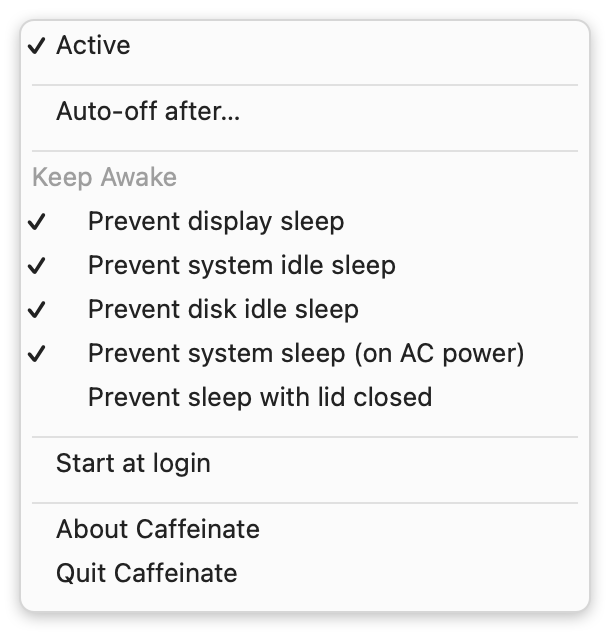
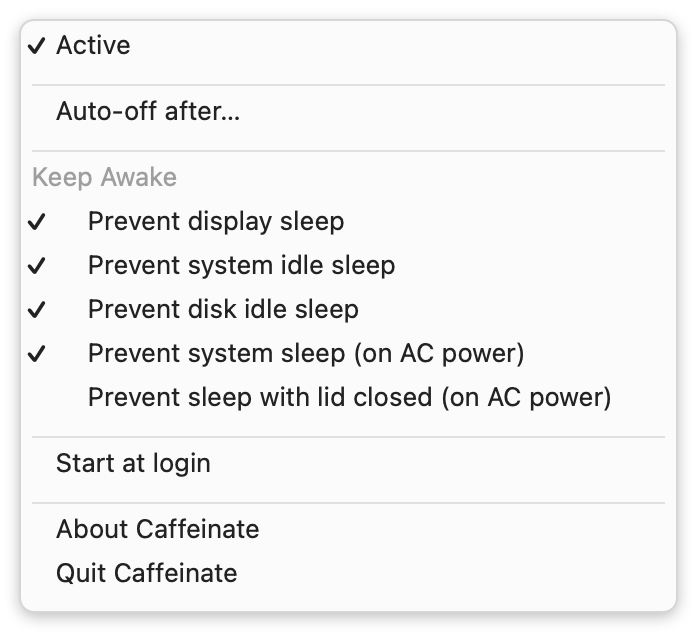
Lid option on AC power only, About box credits
The lid option disables clamshell sleep only while Caffeinate is
active, the option is checked and the Mac is on AC power. A power
source notification applies the change on plug and unplug. While the
option is checked, the -s assertion is held and its menu item is
locked on, because the idle sleep timer still sleeps a closed Mac.
A failure to clear the override shows an alert too.

The About box credits Lennard Kittner with a link to his GitHub page.

Lid test on Mac15,13 passed, arms A to D, see the lid finding.

diff --git a/Caffeinate/Appdelegate.swift b/Caffeinate/Appdelegate.swift
@@ -8,6 +8,7 @@
 import Foundation
 import AppKit
 import IOKit.pwr_mgt
+import IOKit.ps
 
 class AppDelegate: NSObject, NSApplicationDelegate, NSMenuDelegate {
     var statusBarItem: NSStatusItem?
@@ -37,6 +38,8 @@ class AppDelegate: NSObject, NSApplicationDelegate, NSMenuDelegate {
     private var expiryDate: Date?
     private var tickTimer: Timer?
 
+    private var lidSleepDisabled = false
+
     // Duration presets shown in the "Auto-off after…" submenu.
     private static let timerPresets: [(title: String, seconds: TimeInterval)] = [
         ("15 minutes", 15 * 60),
@@ -57,6 +60,7 @@ class AppDelegate: NSObject, NSApplicationDelegate, NSMenuDelegate {
         statusBarItem?.button?.sendAction(on: [.leftMouseUp, .rightMouseUp])
         updateStatusButton()
         _ = setLidSleepDisabled(false)
+        observePowerSource()
     }
 
     func applicationWillTerminate(_ notification: Notification) {
@@ -99,7 +103,7 @@ class AppDelegate: NSObject, NSApplicationDelegate, NSMenuDelegate {
         idleItem = addFlagItem(to: menu, title: "Prevent system idle sleep", action: #selector(toggleIdle))
         diskItem = addFlagItem(to: menu, title: "Prevent disk idle sleep", action: #selector(toggleDisk))
         systemItem = addFlagItem(to: menu, title: "Prevent system sleep (on AC power)", action: #selector(toggleSystem))
-        lidItem = addFlagItem(to: menu, title: "Prevent sleep with lid closed", action: #selector(toggleLid))
+        lidItem = addFlagItem(to: menu, title: "Prevent sleep with lid closed (on AC power)", action: #selector(toggleLid))
 
         menu.addItem(.separator())
 
@@ -181,7 +185,10 @@ class AppDelegate: NSObject, NSApplicationDelegate, NSMenuDelegate {
         displayItem.state = conf.preventDisplaySleep ? .on : .off
         idleItem.state = conf.preventIdleSleep ? .on : .off
         diskItem.state = conf.preventDiskIdle ? .on : .off
-        systemItem.state = conf.preventSystemSleep ? .on : .off
+        systemItem.state = (conf.preventSystemSleep || conf.preventLidSleep) ? .on : .off
+        systemItem.isEnabled = !conf.preventLidSleep
+        systemItem.toolTip = conf.preventLidSleep ?
+            "Required by \u{201C}Prevent sleep with lid closed\u{201D}. Without it, the idle sleep timer still puts a closed Mac to sleep." : nil
         lidItem.state = conf.preventLidSleep ? .on : .off
         loginItem.state = conf.atLogin ? .on : .off
         loginItem.isEnabled = configHandler.macOS13
@@ -360,8 +367,17 @@ class AppDelegate: NSObject, NSApplicationDelegate, NSMenuDelegate {
     }
 
     @objc private func showAbout() {
+        let centred = NSMutableParagraphStyle()
+        centred.alignment = .center
+        let credits = NSAttributedString(
+            string: "\u{00A9} 2026 Lennard Kittner",
+            attributes: [
+                .link: URL(string: "https://github.com/LennardKittner") as Any,
+                .font: NSFont.systemFont(ofSize: NSFont.smallSystemFontSize),
+                .paragraphStyle: centred,
+            ])
         NSApp.activate(ignoringOtherApps: true)
-        NSApp.orderFrontStandardAboutPanel(nil)
+        NSApp.orderFrontStandardAboutPanel(options: [.credits: credits])
     }
 
     @objc private func quit() {
@@ -390,10 +406,11 @@ class AppDelegate: NSObject, NSApplicationDelegate, NSMenuDelegate {
     private func selectedAssertionTypes() -> [String] {
         let conf = configHandler.conf
         var types: [String] = []
+        let systemSleep = conf.preventSystemSleep || conf.preventLidSleep
         if conf.preventDisplaySleep { types.append(kIOPMAssertionTypePreventUserIdleDisplaySleep as String) } // -d
         if conf.preventIdleSleep { types.append(kIOPMAssertionTypePreventUserIdleSystemSleep as String) }     // -i
         if conf.preventDiskIdle { types.append(kIOPMAssertPreventDiskIdle as String) }                        // -m
-        if conf.preventSystemSleep { types.append(kIOPMAssertionTypePreventSystemSleep as String) }           // -s
+        if systemSleep { types.append(kIOPMAssertionTypePreventSystemSleep as String) }                       // -s
         return types
     }
 
@@ -442,12 +459,35 @@ class AppDelegate: NSObject, NSApplicationDelegate, NSMenuDelegate {
     }
 
     private func syncLidSleep() {
-        let disable = hasCoffee && configHandler.conf.preventLidSleep
-        let result = setLidSleepDisabled(disable)
-        if disable && result != KERN_SUCCESS {
-            configHandler.mutateConfig { $0.preventLidSleep = false }
-            showAlert("Prevent Sleep with Lid Closed",
-                      String(format: "macOS refused the request (0x%x).", result))
+        let disable = hasCoffee && configHandler.conf.preventLidSleep && onACPower()
+        if disable != lidSleepDisabled {
+            let result = setLidSleepDisabled(disable)
+            if result == KERN_SUCCESS {
+                lidSleepDisabled = disable
+            } else if disable {
+                configHandler.mutateConfig { $0.preventLidSleep = false }
+                showAlert("Prevent Sleep with Lid Closed",
+                          String(format: "macOS refused to keep the Mac awake with the lid closed (0x%x). The option is turned off.", result))
+            } else {
+                showAlert("Prevent Sleep with Lid Closed",
+                          String(format: "macOS refused to restore sleep with the lid closed (0x%x). The Mac may stay awake with the lid closed until Caffeinate retries, quits, or the Mac restarts.", result))
+            }
         }
+    }
+
+    private func onACPower() -> Bool {
+        let snapshot = IOPSCopyPowerSourcesInfo().takeRetainedValue()
+        let type = IOPSGetProvidingPowerSourceType(snapshot).takeUnretainedValue() as String
+        return type == kIOPMACPowerKey
+    }
+
+    private func observePowerSource() {
+        let context = Unmanaged.passUnretained(self).toOpaque()
+        let source = IOPSNotificationCreateRunLoopSource({ context in
+            if let context = context {
+                Unmanaged<AppDelegate>.fromOpaque(context).takeUnretainedValue().syncLidSleep()
+            }
+        }, context).takeRetainedValue()
+        CFRunLoopAddSource(CFRunLoopGetMain(), source, .commonModes)
     }
 }

diff --git a/scripts/make-screenshots.swift b/scripts/make-screenshots.swift
@@ -68,7 +68,7 @@ let rows: [Row] = [
     .check("Prevent system idle sleep", on: true, indent: true),
     .check("Prevent disk idle sleep", on: true, indent: true),
     .check("Prevent system sleep (on AC power)", on: true, indent: true),
-    .check("Prevent sleep with lid closed", on: false, indent: true),
+    .check("Prevent sleep with lid closed (on AC power)", on: false, indent: true),
     .sep,
     .plain("Start at login"),
     .sep,

diff --git a/README.md b/README.md
@@ -28,24 +28,29 @@ same as `caffeinate -dims`.
 | Prevent system idle sleep | `-i` |
 | Prevent disk idle sleep | `-m` |
 | Prevent system sleep (on AC power) | `-s` |
-| Prevent sleep with lid closed | none, off by default |
+| Prevent sleep with lid closed (on AC power) | none, off by default |
 
 ### Lid closed
 
-**Prevent sleep with lid closed** keeps a MacBook awake when you close
-the lid, on battery and with no external display. The option needs no
-`sudo` and no helper. The option applies only while Caffeinate is active, and
-Caffeinate clears it when you turn Caffeinate off, quit, or launch it
-again.
+**Prevent sleep with lid closed (on AC power)** keeps a MacBook awake
+when you close the lid, with no external display. The option needs no
+`sudo` and no helper. The option applies only while Caffeinate is
+active and the Mac is on AC power. Caffeinate clears it when you turn
+Caffeinate off, unplug the power, quit, or launch it again.
 
-A closed MacBook in a bag gets hot. Use the option with the auto-off
-timer, and keep the Mac where air can move around it.
+On battery the option has no effect, so a closed MacBook in a bag
+sleeps as usual and does not get hot.
+
+The lid override stops only the sleep that the lid causes. The idle
+sleep timer still applies, so the option also turns on **Prevent
+system sleep (on AC power)** and locks it on while checked.
 
 The option uses only public IOKit calls of the macOS SDK:
 `IOConnectCallScalarMethod` on the power manager with the selector
 `kPMSetClamshellSleepState` from `IOPMLibDefs.h`. The selector has no
-documentation. If macOS refuses the call, Caffeinate shows an alert and
-turns the option off.
+documentation. If macOS refuses to set the override, Caffeinate shows
+an alert and turns the option off. If macOS refuses to clear it,
+Caffeinate shows an alert and tries again on the next change.
 
 ### Auto-off timer
 

diff --git a/okf/findings/lid-close-without-root.md b/okf/findings/lid-close-without-root.md
@@ -36,3 +36,29 @@ closed at about 08:15:20 PST, and powerd wrote `lidopen` at 08:17:59.
 `pmset -g log` has no Sleep line and no Wake line in that window, and
 other assertion events went on at 08:16:53, 08:17:12 and 08:17:21.
 The test is one run with no control arm.
+
+Lid test of the AC-only option, 2026-11-23, same Mac, macOS 26.7.1,
+battery at 100 percent, no external display. The build is `main` with
+the AC-only change. Caffeinate held `-i` and `-m` in each arm, and the
+lid option added `-s`. Evidence is `pmset -g log` and a clock line
+every 5 s.
+
+- A, AC, option off: `Clamshell Sleep` at 00:58:59, about 10 s after
+  the lid closed. This arm is the control.
+- B, AC, option on: lid closed 01:02:26 to 01:04:22, no gap in the
+  clock, no sleep entry.
+- C, battery, option on, the app launched on battery: `Clamshell
+  Sleep` at 01:08:08, about 5 s after the lid closed.
+- D, option on: plugged in, lid closed at 01:10:08, awake on AC.
+  Unplugged at 01:10:43 with the lid closed, `Clamshell Sleep` in the
+  same second. The power source notification works in the sandbox in
+  both directions.
+
+`AppleClamshellCausesSleep` is not a proof of the override state. On
+battery it read `0` after the selector set 0, then 1, then 0, each
+call `KERN_SUCCESS`. Use a lid close and `pmset -g log` instead.
+
+A MacBookAir5,2 on macOS 15.8.3 through OpenCore is no test machine.
+With Caffeinate quit, it did not sleep with the lid closed. The
+internal keyboard and trackpad sent a user activity event within 1 s of each
+display off, every 22 s. The cause is not known.

diff --git a/okf/files/appdelegate.md b/okf/files/appdelegate.md
@@ -10,6 +10,10 @@ generated: { by: claude/opus, at: 2026-11-18T08:30:00Z }
 `hasCoffee`, and a right click or a Control click opens the menu.
 `createAssertions` holds one `IOPMAssertionID` per flag in `activeAssertions`.
 `setLidSleepDisabled` sets the clamshell sleep state of `IOPMrootDomain`, and
-`syncLidSleep` keeps it equal to `hasCoffee && preventLidSleep`. The auto-off
-timer is `expiryDate` and `tickTimer`. The file stops at persistence, which is
-`ConfigHandler`.
+`syncLidSleep` keeps it equal to `hasCoffee && preventLidSleep && onACPower()`,
+and `observePowerSource` calls it on a power source change. While
+`preventLidSleep` is on, the `-s` assertion is held and its item is locked
+on, because the idle sleep timer still sleeps a closed Mac.
+
+The auto-off timer is `expiryDate` and `tickTimer`. The file stops at
+persistence, which is `ConfigHandler`.

diff --git a/okf/tasks.md b/okf/tasks.md
@@ -33,6 +33,18 @@ Waits on: Human says "submit". The release type MUST stay manual.
 Next step: set free, Data Not Collected, the URLs and the text, attach
 the build, then show the submission to Human.
 
+### #4 Lid test of the AC-only lid option, then PR 7
+
+Status: the lid option applies only on AC power and locks the `-s`
+item on. The lid test passed on 2026-11-23, arms A to D, per
+`okf/findings/lid-close-without-root.md`. The code is in `main`, not
+committed, and in the PR branch in `tmp/pr7`, not pushed.
+
+Waits on: Human says "push".
+
+Next step: push the PR branch, update the description with the test,
+and reply in the 2 open threads.
+
 ## Closed
 
 | # | subject | closed |

diff --git a/okf/log.md b/okf/log.md
@@ -1,3 +1,4 @@
 2026-11-08  Merge pull request #5 from claytoncollie/universal-binary
 2026-11-18  Signed DMG release, Homebrew cask, lid option, bug fixes
 2026-11-18  project.yml replaces the committed Xcode project
+2026-11-18  App Store metadata, privacy page, public API wording
